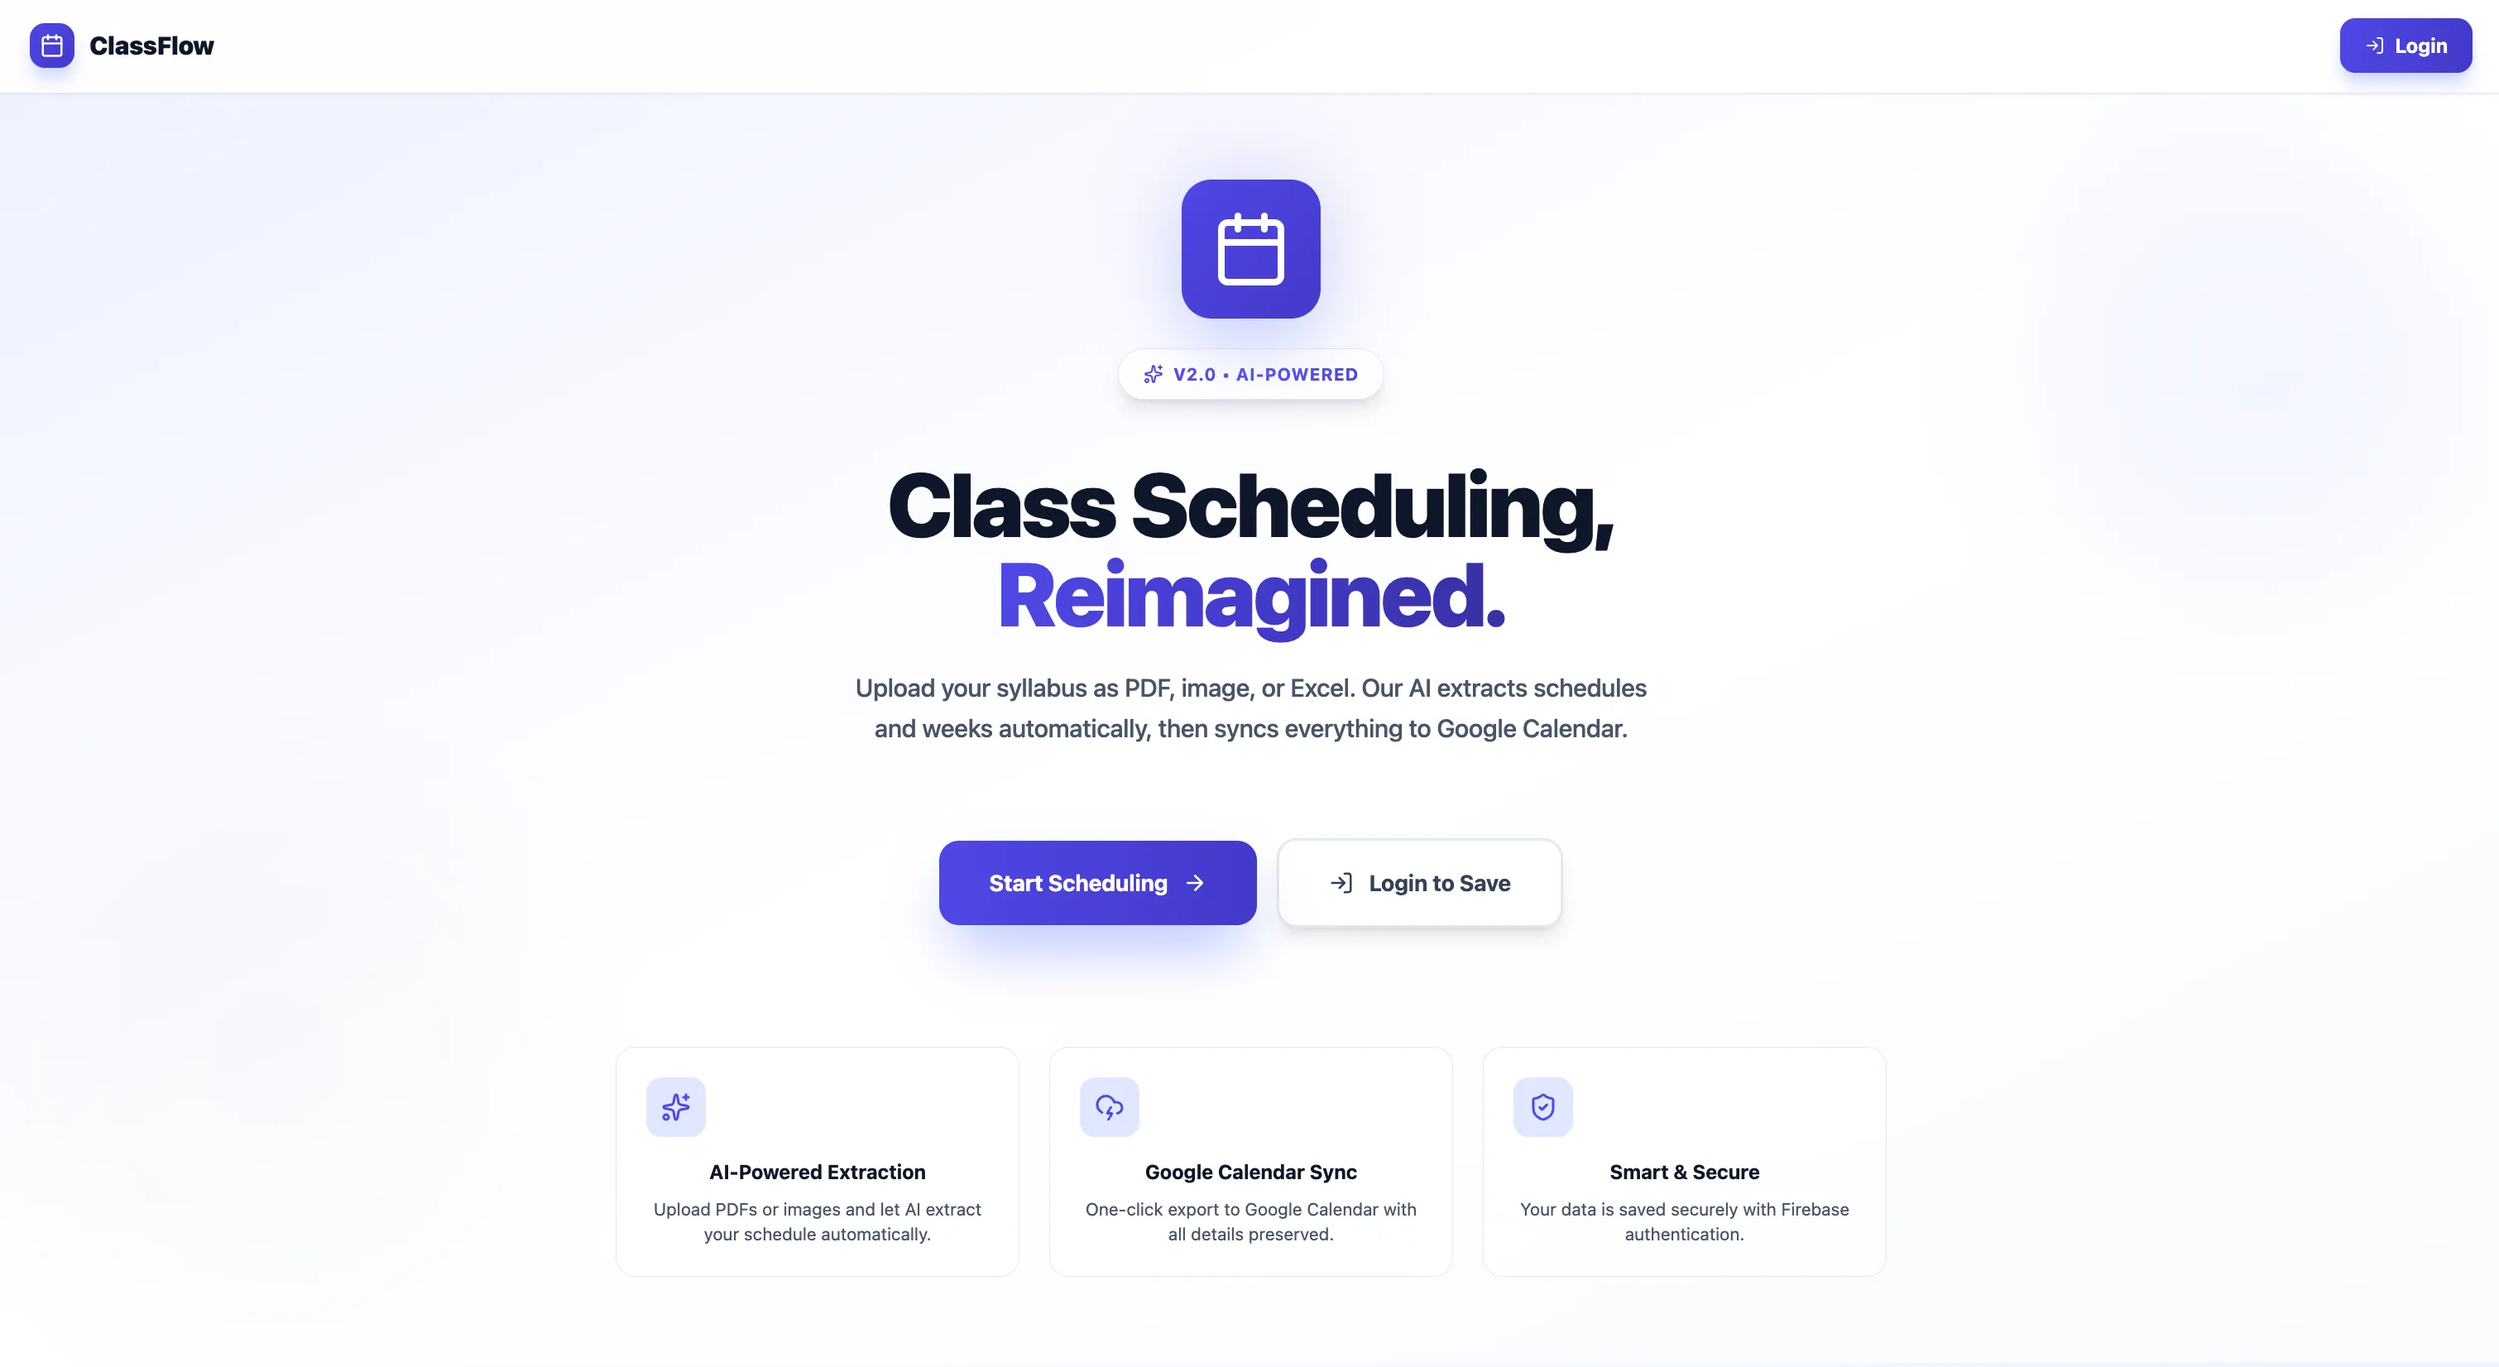
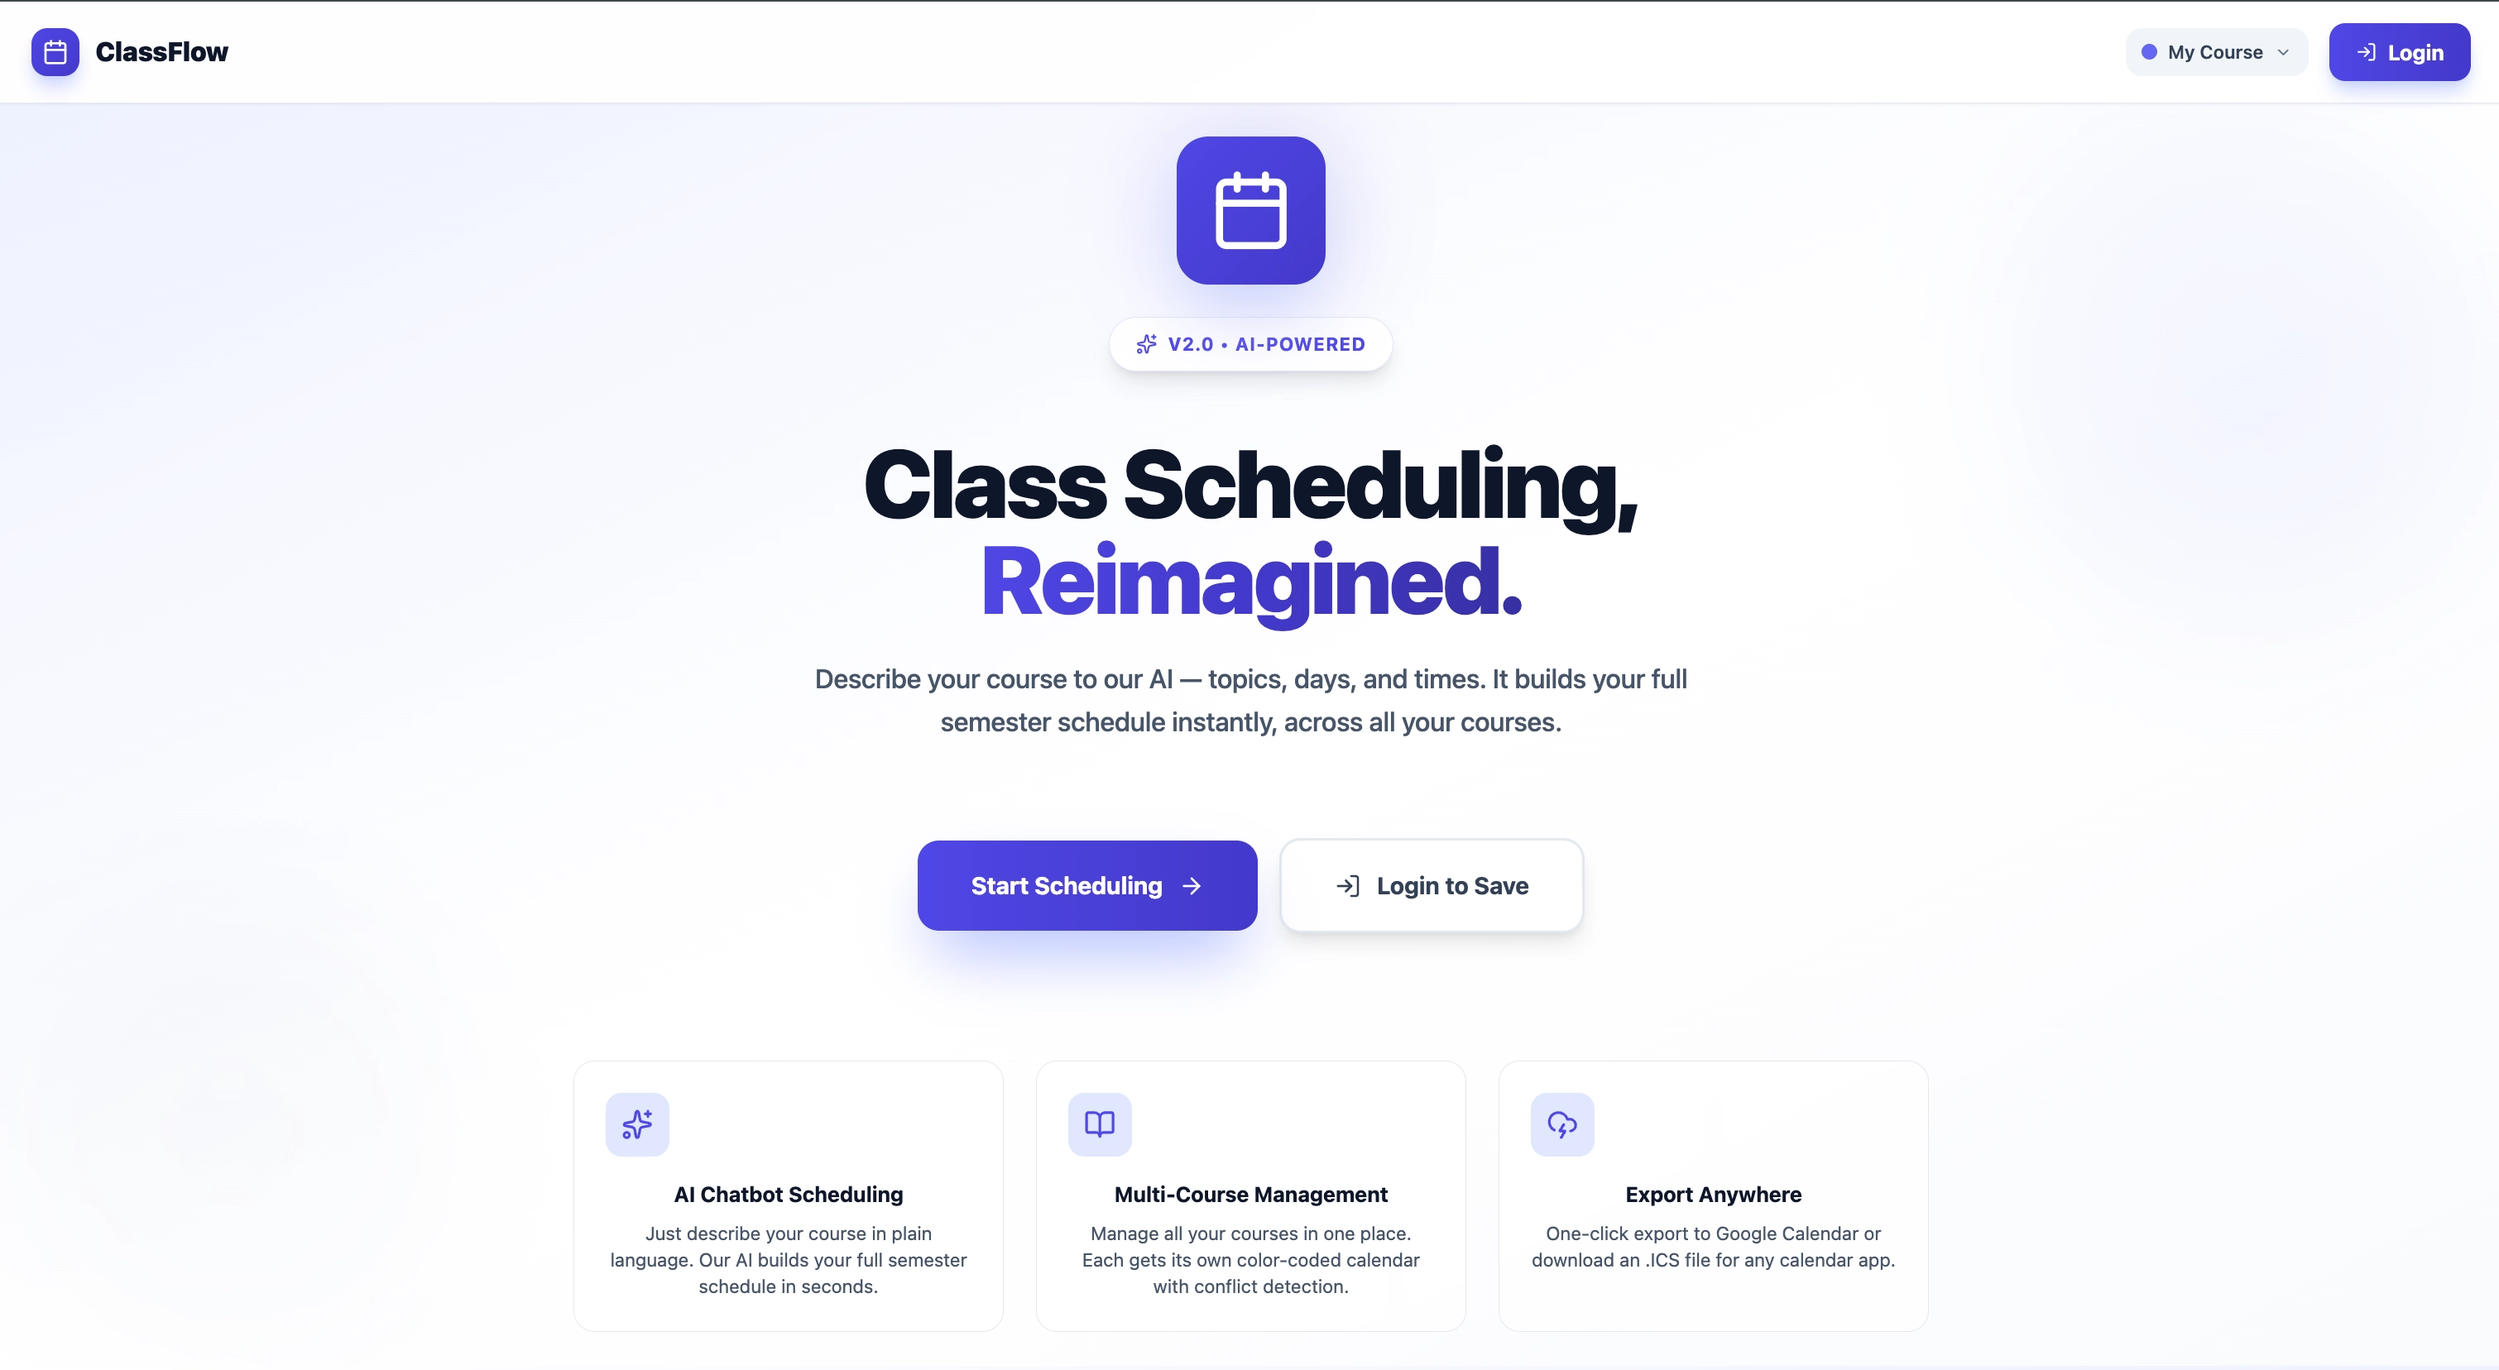
Update ClassFlow portfolio case study with full rewrite and new screenshots
- Rewrote all case study sections: correct audience (professors), chatbot-only input, 10 detailed sections covering overview, problem, solution, how it works, calendar views, event list view, AI chatbot architecture, schedule generation engine, key features, tech stack, and what I learned
- Replaced all placeholder/outdated screenshots with 7 live screenshots captured from the running app: landing page, import+chatbot screen, March calendar with assignment markers, hourly week grid, and event list view
- Updated thumbnail to show the March 2026 calendar with populated schedule
- Removed 9 unused images from the ClassFlow images folder
- Fixed Calendar Views section layout from row to grid for proper side-by-side display

diff --git a/src/App.tsx b/src/App.tsx
@@ -175,8 +175,8 @@ const projects: Project[] = [
     title: "ClassFlow",
     category: "AI Agent / Full Stack",
     timeline: "Ongoing",
-    description: "A chat-first class scheduling app that turns plain language into structured, exportable calendars for students and instructors.",
-    tags: ["React 19", "Vite", "Tailwind CSS", "Firebase", "Gemini AI", "Google Calendar API", "n8n"],
+    description: "An AI-powered course scheduling tool for professors — describe your semester in plain language and get a fully structured, exportable calendar in minutes.",
+    tags: ["React 19", "Vite 7", "Tailwind CSS", "Firebase", "Gemini 2.5 Flash", "Google Calendar API"],
     color: "bg-[#F2F1FF]",
     accentColor: "text-[#4239C4]",
     hoverColor: "group-hover:text-[#4239C4]",
@@ -187,63 +187,121 @@ const projects: Project[] = [
       role: "Creator & Lead Developer",
       sections: [
         {
-          title: "Problem",
-          content: "Students and instructors often know what they need to schedule but do not have time to manually structure it into a clean calendar. Traditional tools assume you already have a formatted plan, which is unrealistic for many people."
-        },
-        {
-          title: "Solution",
-          content: "I built ClassFlow, a chat-first scheduling app that lets users build a full class plan through conversation.",
-          imageLayout: "stack",
-          listItems: [
-            "AI assistant captures topics, dates, times, and recurring patterns.",
-            "Generates a structured calendar that can be reviewed, edited, and exported to Google Calendar or .ics."
-          ],
+          title: "Overview",
+          content: "ClassFlow is a full-stack AI scheduling assistant built specifically for professors. Instead of manually building 45+ calendar events at the start of every semester, professors simply describe their course in a chat — topics, meeting days, times, and dates — and ClassFlow generates the entire semester schedule automatically. It is live, actively used, and still being developed.",
           images: [
             {
-              src: `${PUBLIC_URL}/images/ClassFlow/ClassFlow-Mainscreen.webp`,
-              caption: "ClassFlow Main Screen"
-            },
-            {
-              src: `${PUBLIC_URL}/images/ClassFlow/ClassFlow-Calendar.webp`,
-              caption: "ClassFlow Calendar"
+              src: `${PUBLIC_URL}/images/ClassFlow/ClassFlow-Landing.webp`,
+              caption: "ClassFlow landing page — V2.0, AI-powered"
             }
           ]
         },
         {
-          title: "How it works",
-          content: "A guided workflow that turns conversation into a usable schedule.",
+          title: "The Problem",
+          content: "At the start of every semester, professors face the same invisible labour: planning an entire course calendar by hand. For a typical 15-week course meeting three times a week, that is 45+ events to create — topics mapped to weeks, recurring sessions set up, assignment deadlines tracked, all entered into a calendar one by one. It is repetitive, error-prone, and burns hours that professors don't have."
+        },
+        {
+          title: "The Solution",
+          content: "ClassFlow removes that burden entirely. A professor describes their course once in a natural language chat — topics by week, meeting days and times, semester dates — and Gemini 2.5 Flash generates the full semester schedule instantly. The result is a structured, visual, editable calendar ready to export to Google Calendar or download as a .ics file.",
+          imageLayout: "stack",
+          images: [
+            {
+              src: `${PUBLIC_URL}/images/ClassFlow/ClassFlow-Import-Chatbot.webp`,
+              caption: "Import Data screen: AI chatbot (left), live Parsed Plan with schedule pattern and events (centre), Assignment tracker (right)"
+            }
+          ]
+        },
+        {
+          title: "How It Works",
+          content: "The entire app is built around a three-step flow: describe, review, export.",
           listItems: [
-            "Chat-only input: users describe topics, dates, and patterns in natural language.",
-            "Structured output: assistant returns updates and waits for approval before applying them.",
-            "Schedule generation: scheduling engine maps topics to recurring class slots.",
-            "Preview + export: calendar or list view with Google Calendar and .ics export.",
-            "Persistence: Firebase Auth + Firestore save schedules and chat context."
+            "Describe — the professor types their course details into the AI chatbot: topics by week, meeting days and times, semester start and end dates.",
+            "Parse — Gemini 2.5 Flash extracts a recurring schedule pattern, maps topics to specific class sessions, and populates a live Parsed Plan panel in real time.",
+            "Review — the professor switches to View Schedule and sees the full semester across three views: month grid, hourly week grid, or searchable event list.",
+            "Refine — events can be edited directly on the calendar, or adjusted via follow-up chat ('Move the midterm to March 20', 'Add office hours every Thursday at 2pm').",
+            "Export — one-click push to Google Calendar via OAuth with a live progress bar, or download as a standards-compliant .ics file for Outlook, Apple Calendar, or any client.",
+            "Persist — authenticated users have all courses and schedules auto-saved to Firestore across sessions."
+          ]
+        },
+        {
+          title: "Calendar Views",
+          content: "Once a schedule is generated, professors can explore it in three different views — each designed for a different purpose.",
+          imageLayout: "grid",
+          imageHeight: "auto",
+          images: [
+            {
+              src: `${PUBLIC_URL}/images/ClassFlow/ClassFlow-Calendar-March.webp`,
+              caption: "Month grid — full semester at a glance. Assignment deadlines appear as colour-coded markers (DUE: Midterm Essay visible on March 1)."
+            },
+            {
+              src: `${PUBLIC_URL}/images/ClassFlow/ClassFlow-Week-View.webp`,
+              caption: "Hourly week grid — shows exact session times (10:00–11:00am), today's date highlighted, and Mon/Wed/Fri pattern clearly visible."
+            }
+          ]
+        },
+        {
+          title: "Event List View",
+          content: "The searchable list view gives professors a chronological breakdown of every event across all their courses — with date, time, topic, and course label all visible at once. Useful for reviewing the full semester quickly or finding specific sessions.",
+          images: [
+            {
+              src: `${PUBLIC_URL}/images/ClassFlow/ClassFlow-List-View.webp`,
+              caption: "List view — every session listed chronologically with date, time, topic, and course tag. Fully searchable."
+            }
+          ]
+        },
+        {
+          title: "AI Chatbot Architecture",
+          content: "The chatbot is the core of ClassFlow — not a wrapper around a chat UI, but a structured AI pipeline that turns natural language into calendar data. Every message sent to Gemini 2.5 Flash includes the full current schedule state, a persistent chat memory object, the last 12 conversation turns, and date/time hints pre-extracted via regex.",
+          listItems: [
+            "Response types: answer (info only), clarify (asking for missing info), or update (modify the schedule).",
+            "Supports replace, append, remove, and targeted update operations on individual events.",
+            "Returns a recurringConfig object (days[], startDate, endDate, startTime, endTime) that drives the schedule generation engine.",
+            "Maintains a chatMemory object across turns — topics, times, recurring config — so professors never have to repeat context.",
+            "Handles API overload with exponential backoff retry: 500ms → 1000ms → 1800ms before surfacing an error.",
+            "Pending updates shown in-chat as a 'Review & Apply' card with Apply, Discard, and Replace options before any state change."
+          ]
+        },
+        {
+          title: "Schedule Generation Engine",
+          content: "Once the AI extracts a recurring config from the chat, a custom scheduling engine maps topics to class sessions deterministically — no AI involvement at this step, so the output is always predictable and correct.",
+          listItems: [
+            "generateRecurringDates() iterates across the full date range, filters to the configured weekdays, and assigns week numbers to each session.",
+            "Topics tagged by week (e.g. week: 3) are distributed evenly across that week's available class slots.",
+            "If a week has more topics than sessions, extras are appended to the notes field of existing events rather than dropped.",
+            "If sessions outnumber topics, slots are created as blank placeholders the professor can fill manually.",
+            "Assignment deadlines are injected as special marker events: Given (blue), Check-in (amber), Due (orange) — visible on the calendar alongside regular sessions."
+          ]
+        },
+        {
+          title: "Key Features",
+          content: "Every feature in ClassFlow was built around a real professor workflow — not what looks impressive in a demo.",
+          listItems: [
+            "AI chatbot as the only input method — no file uploads, no forms, just conversation.",
+            "Multi-course support — each course gets its own colour, isolated state, and appears in a shared calendar view.",
+            "Three calendar views: month grid, hourly week grid (7am–10pm), and searchable event list.",
+            "Conflict detection — flags overlapping sessions across courses with a badge count and highlighted rows in list view.",
+            "Undo stack — per-course snapshots (last 10 actions) for safe experimentation and mistake recovery.",
+            "Assignment tracker — professors add Given, Check-in, and Due dates per assignment; these inject as colour-coded marker events in the calendar.",
+            "Google Calendar export — OAuth 2.0 flow with batched API calls and a real-time progress bar showing export status.",
+            ".ics download — custom VEVENT serialisation, importable into any calendar client.",
+            "Guest mode — full scheduling functionality without login; login with Firebase to save across sessions."
           ]
         },
         {
           title: "Tech Stack",
-          content: "Core technologies powering ClassFlow.",
+          content: "Built entirely as a solo project over multiple iterations.",
           listItems: [
-            "React 19, Vite, Tailwind CSS",
-            "Firebase Auth + Firestore",
-            "Google Gemini API",
-            "Google Calendar API"
+            "React 19 + Vite 7 — component-based frontend with fast HMR development",
+            "Tailwind CSS + Lucide React — utility-first styling with consistent iconography",
+            "Google Gemini 2.5 Flash — AI model handling both the chatbot responses and schedule parsing",
+            "Firebase Auth + Firestore — Google sign-in and per-user cloud persistence",
+            "Google Calendar API — OAuth 2.0 token flow with batched event creation requests",
+            "Custom ICS serialisation — VEVENT generation without any third-party calendar library"
           ]
         },
         {
-          title: "Key Features / Impact",
-          content: "Highlights that make the experience fast and reliable.",
-          listItems: [
-            "Chat-first UX that converts plain language into structured schedules.",
-            "Review-and-apply workflow prevents unintended edits.",
-            "Automated weekly schedule generation from recurring patterns.",
-            "Google Calendar sync and .ics export.",
-            "Per-user saved schedules with Firebase."
-          ]
-        },
-        {
-          title: "Why it's meaningful",
-          content: "ClassFlow removes the friction between “I have a plan in my head” and “I have a calendar I can use.” It turns conversation into structure, making scheduling faster and more accessible."
+          title: "What I Learned",
+          content: "ClassFlow taught me what it actually means to build an AI-powered product — not just call an API and display a response, but architect a system where AI output is structured, validated, and applied to real state. The hardest problem was not making the AI generate a schedule. It was making it feel trustworthy: handling edge cases, surfacing pending changes before applying them, keeping memory across turns, and recovering gracefully when the model returns unexpected output. A professor is trusting this tool with their entire semester. That shaped every design and engineering decision."
         }
       ]
     }
